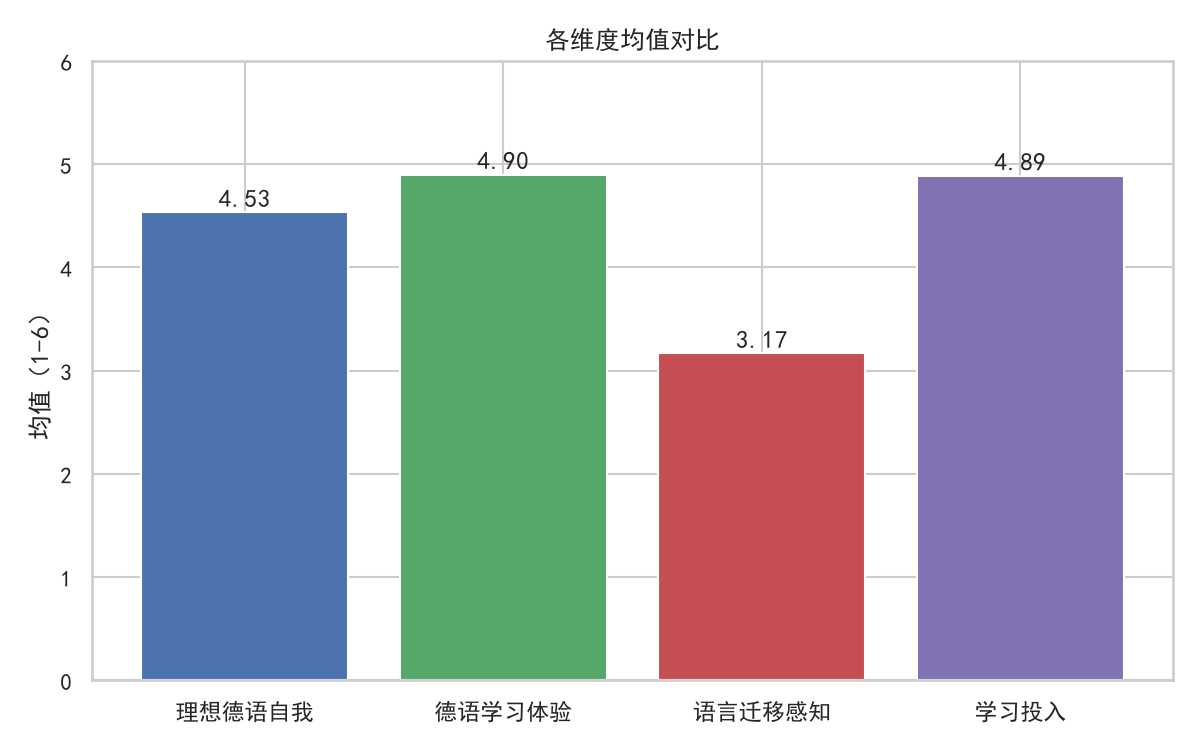
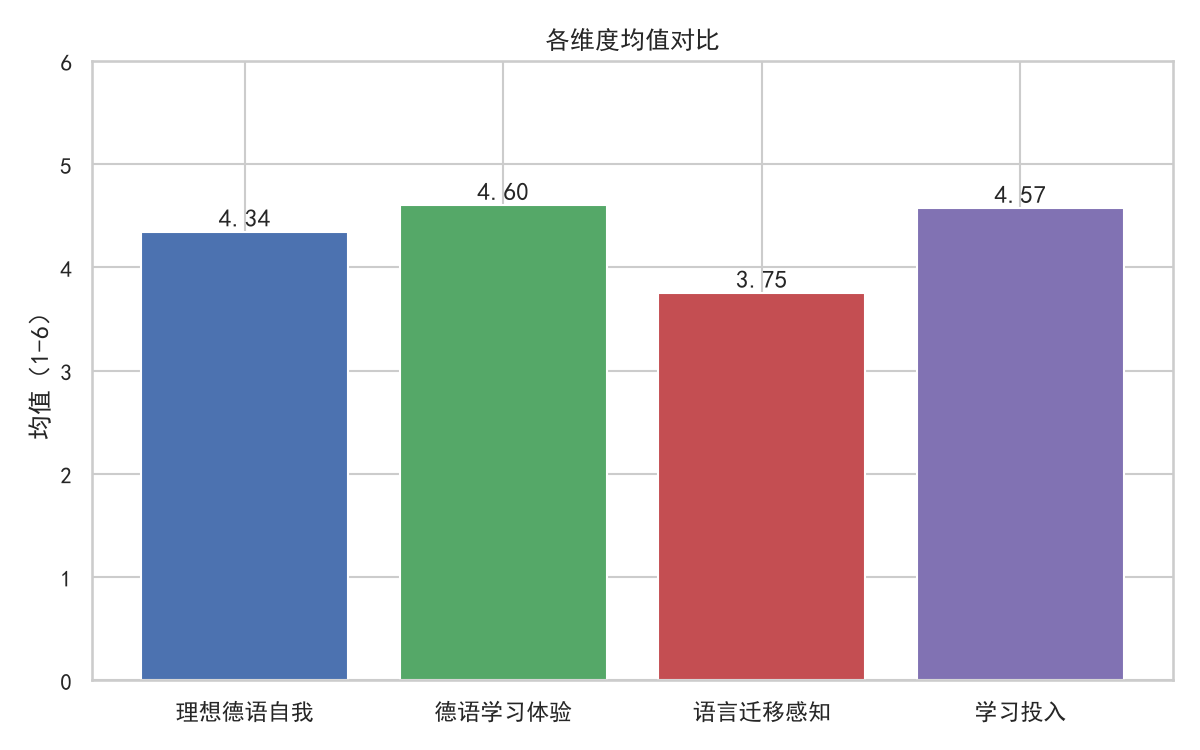
更新至7人数据，修复端口绑定问题

diff --git a/app_nicegui.py b/app_nicegui.py
@@ -42,8 +42,7 @@ def render_page():
             with ui.card().classes('card w-full'):
                 ui.label('英语专业学生德语二外学习动机研究').style(
                     'font-size: 28px; font-weight: bold; color: #2C3E50;')
-                ui.label(f'基于L2MSS理论框架的混合方法研究（当前有效样本量：{len(df)} 人）').style(
-                    'color: #7F8C8D; margin-bottom: 20px;')
+                ui.label("📌 注：当前为7人小样本探索性回归（保留3个核心自变量），模型有效自由度增加，结果能更真实地反映变量间的预测关系。").style('font-size: 13px; color: #7F8C8D; margin-top: 10px; padding: 10px; border-radius: 5px;')
 
             with ui.card().classes('card w-full'):
                 ui.label('📋 基本信息').style('font-size: 20px; font-weight: bold;')
@@ -414,9 +413,11 @@ render_page()
 # 启动应用
 import os
 # ... 其他代码 ...
+import os
+# ... 其他代码 ...
 ui.run(
-    host='0.0.0.0',  # 必须绑定到 0.0.0.0 才能被 Render 扫描到[reference:2]
-    port=int(os.environ.get('PORT', 8080)),  # 动态读取 Render 分配的端口
+    host='0.0.0.0',  # 关键：绑定到 0.0.0.0 才能被 Render 扫描到
+    port=int(os.environ.get('PORT', 8080)),  # 关键：动态读取 Render 分配的端口
     title='德语二外学习动机研究',
     reload=False
 )
